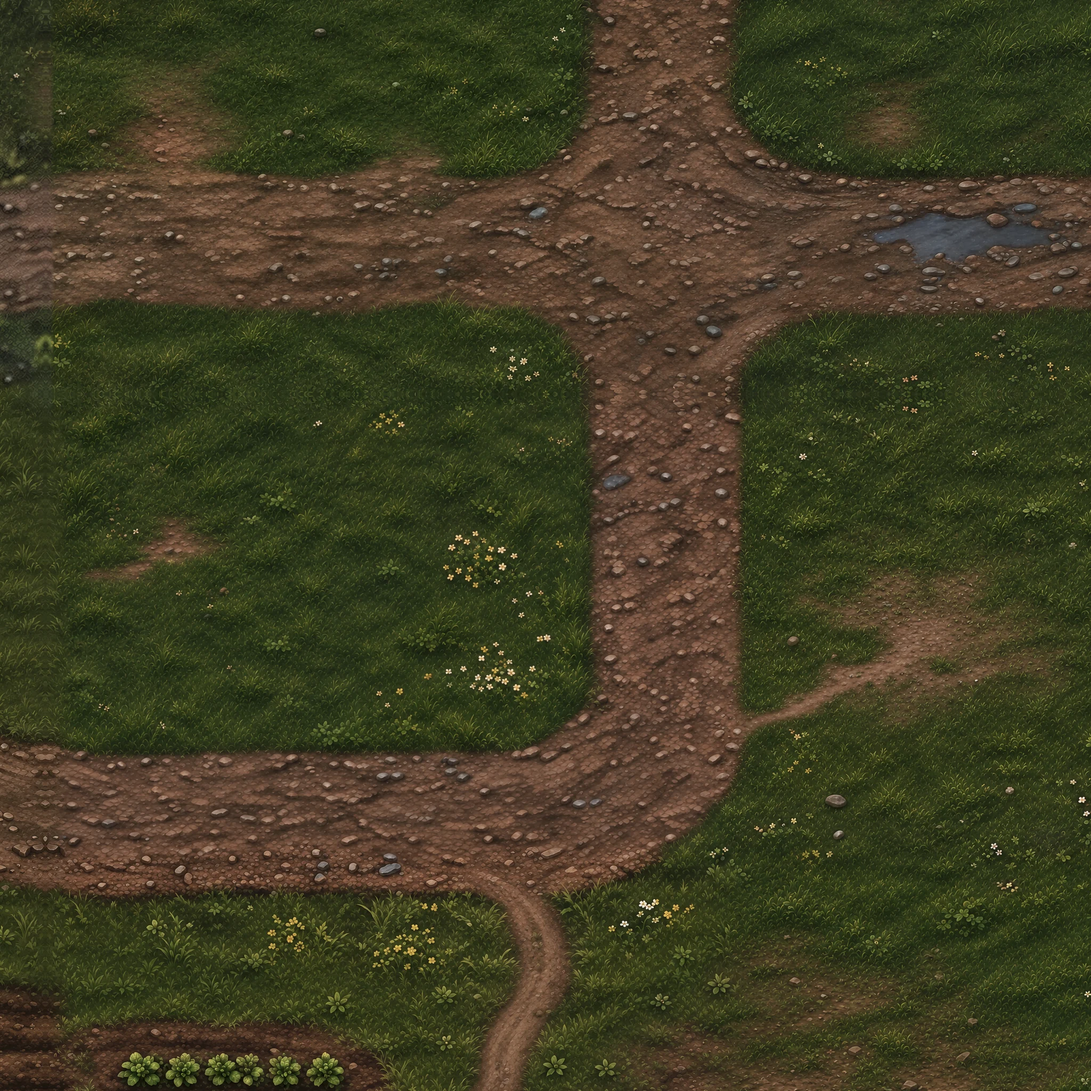
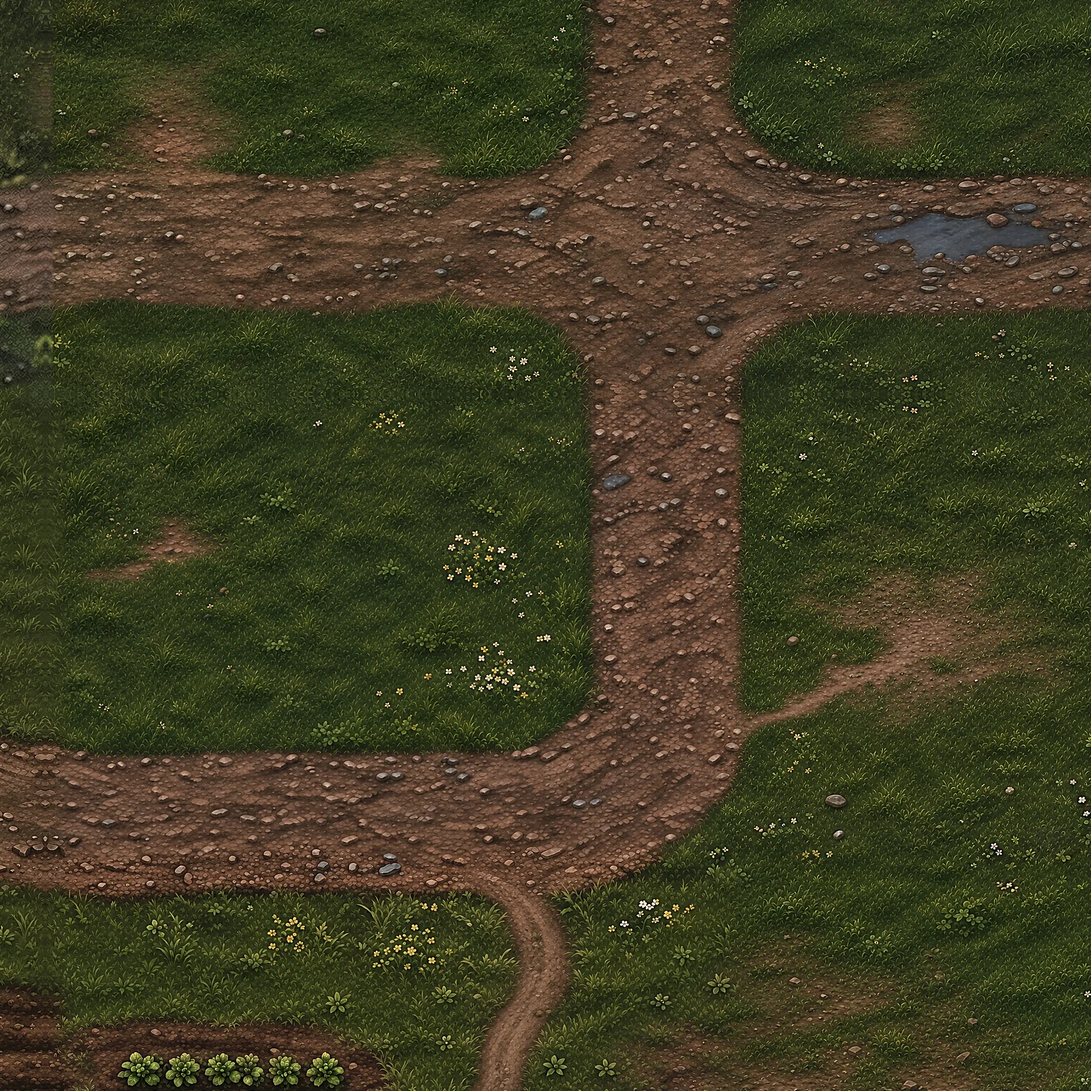
0.1.53: Palli's ground sharpened (patch note)
Claude-Session: https://claude.ai/code/session_01GdUtVyN9RJChkwtqMYVHJY

diff --git a/game.html b/game.html
@@ -588,7 +588,7 @@ setTimeout(stInit, 0);
 // ---- Report a bug / share an idea. Each report is posted to Mathis's Google Form (its answers fill a Google Sheet that Claude reads).
 // REPORT.form: the form's /formResponse address; REPORT.f: the entry ids of its questions. Empty = not wired yet: reports wait on the device.
 const REPORT = {form:'https://docs.google.com/forms/d/e/1FAIpQLScxkx9EH5JrIl3sv-kmJCeBhfmK7VFl6_9q2C7KEp91dp3fpg/formResponse', f:{kind:'entry.1266972860', text:'entry.559001655', contact:'entry.927686679', info:'entry.1743785591'}};
-const GAME_VER = '0.1.52';
+const GAME_VER = '0.1.53';
 const ERRLOG = [];
 window.addEventListener('error', e => { ERRLOG.push(String(e.message || e).slice(0, 160) + (e.filename ? ' @' + e.filename.split('/').pop() + ':' + e.lineno : '')); if(ERRLOG.length > 5) ERRLOG.shift(); });
 

diff --git a/index.html b/index.html
@@ -104,6 +104,13 @@ footer{border-top:1px solid var(--line);text-align:center;color:var(--dim);font-
   <div class="notes">
 <!-- PATCHES: newest first. Plain language; say what changed and, when it came from feedback, that it did. -->
     <article class="patch">
+      <h3>Update 0.1.53</h3>
+      <p class="when">November 21, 2026</p>
+      <ul>
+        <li>Palli's ground is sharper: the grass, the dirt roads and their stones no longer look smeared on big screens. A full repaint of the ground is on the way.</li>
+      </ul>
+    </article>
+    <article class="patch">
       <h3>Update 0.1.48</h3>
       <p class="when">November 20, 2026</p>
       <ul>
